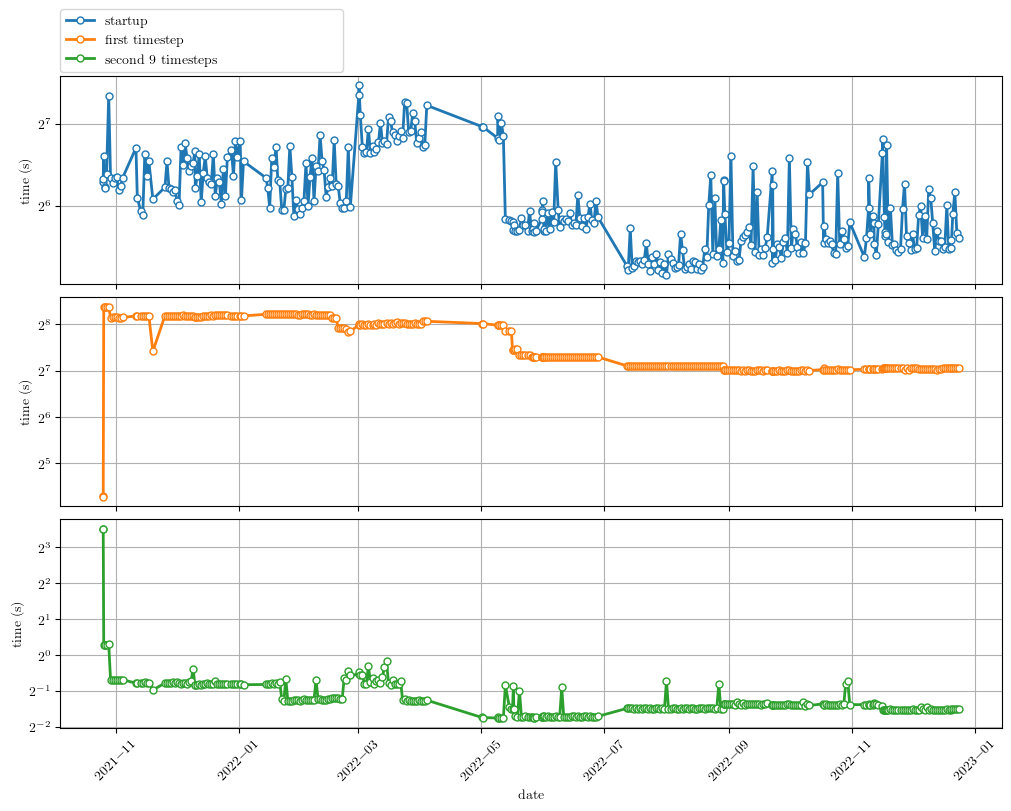
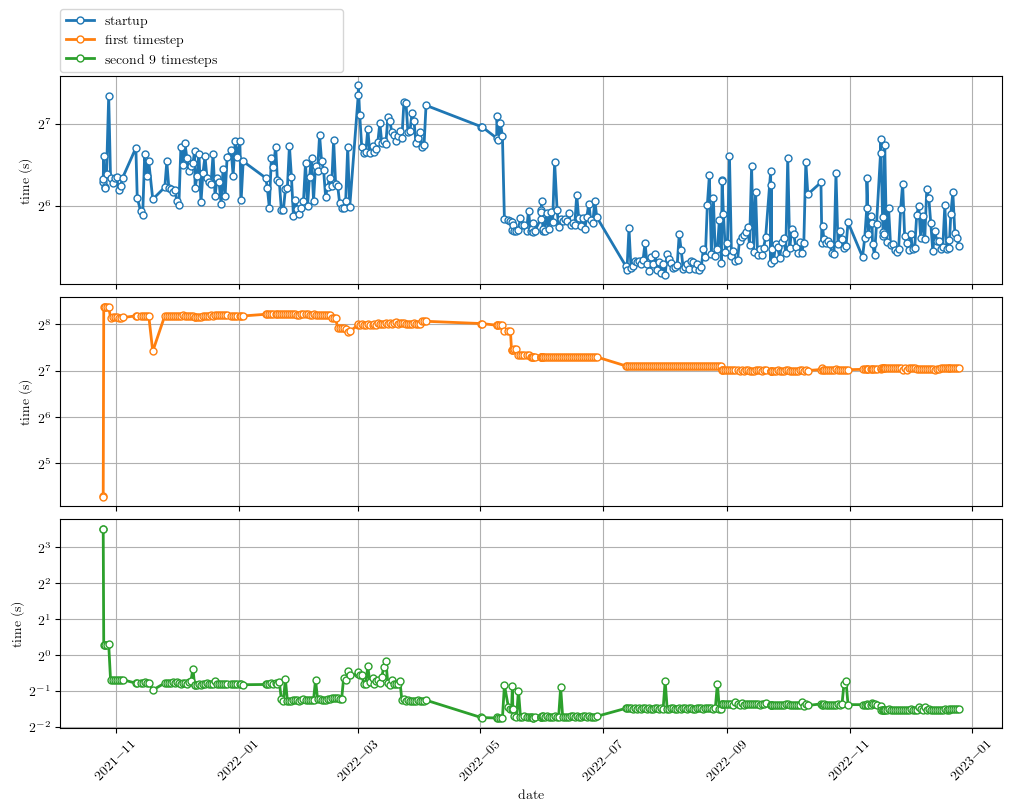
Automatic timing summary commit: lassen708 2022-12-25 05:01

diff --git a/README.md b/README.md
@@ -1,4 +1,4 @@
-Timings last ran on: 2022.12.24
+Timings last ran on: 2022.12.25
 
 # Status of production timings
 
